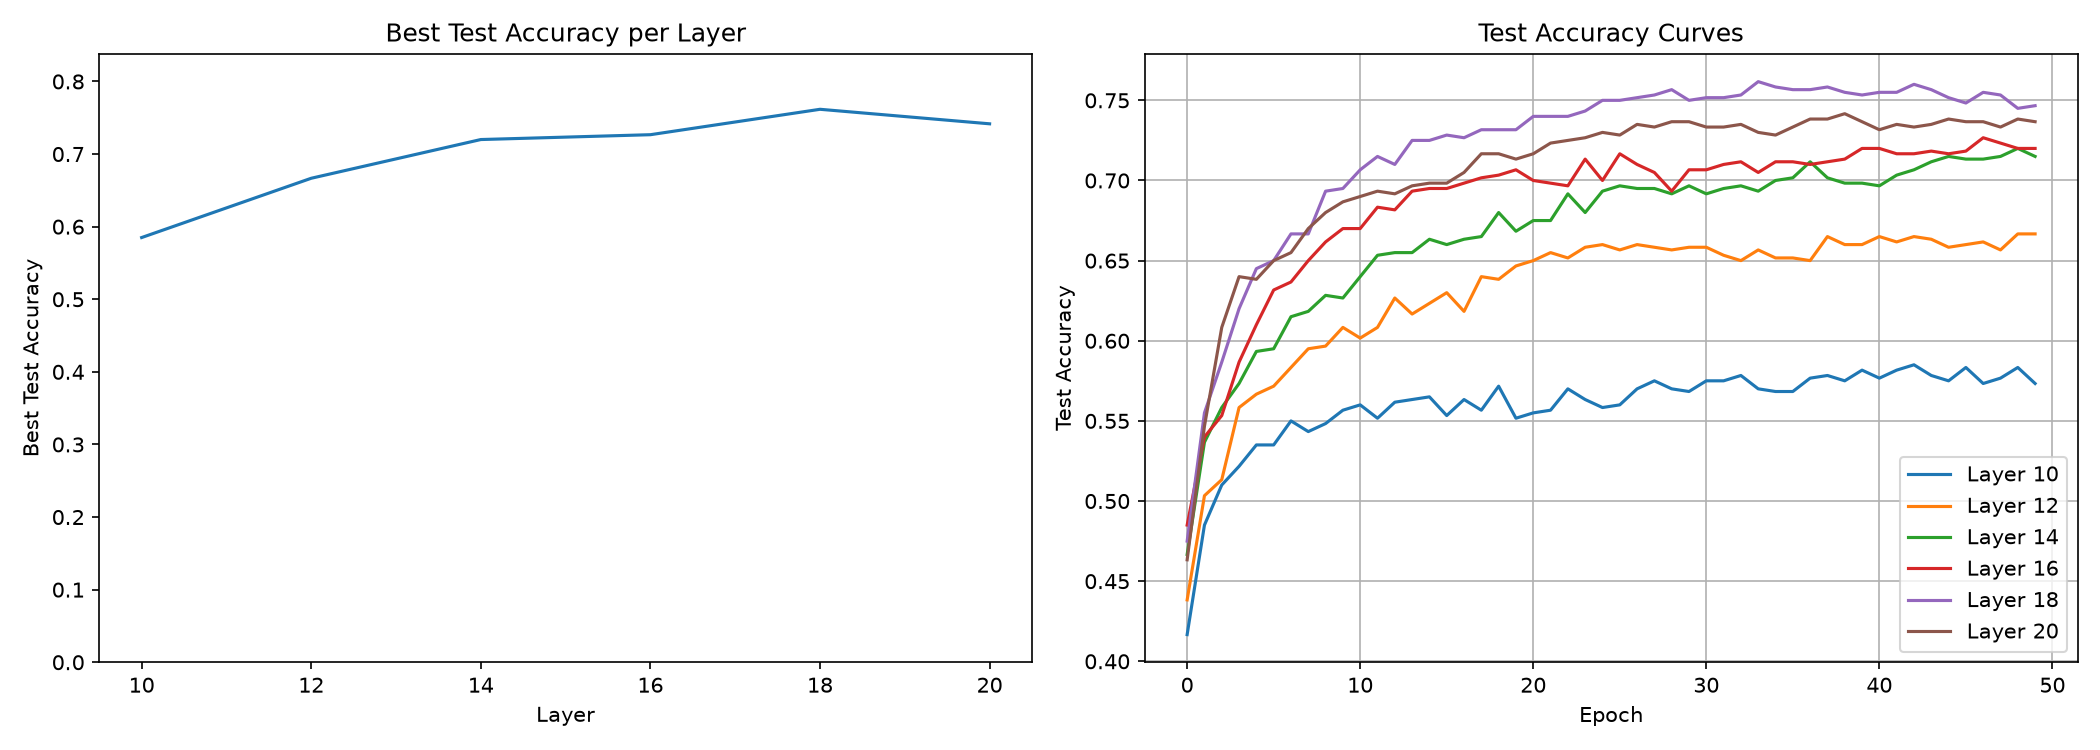
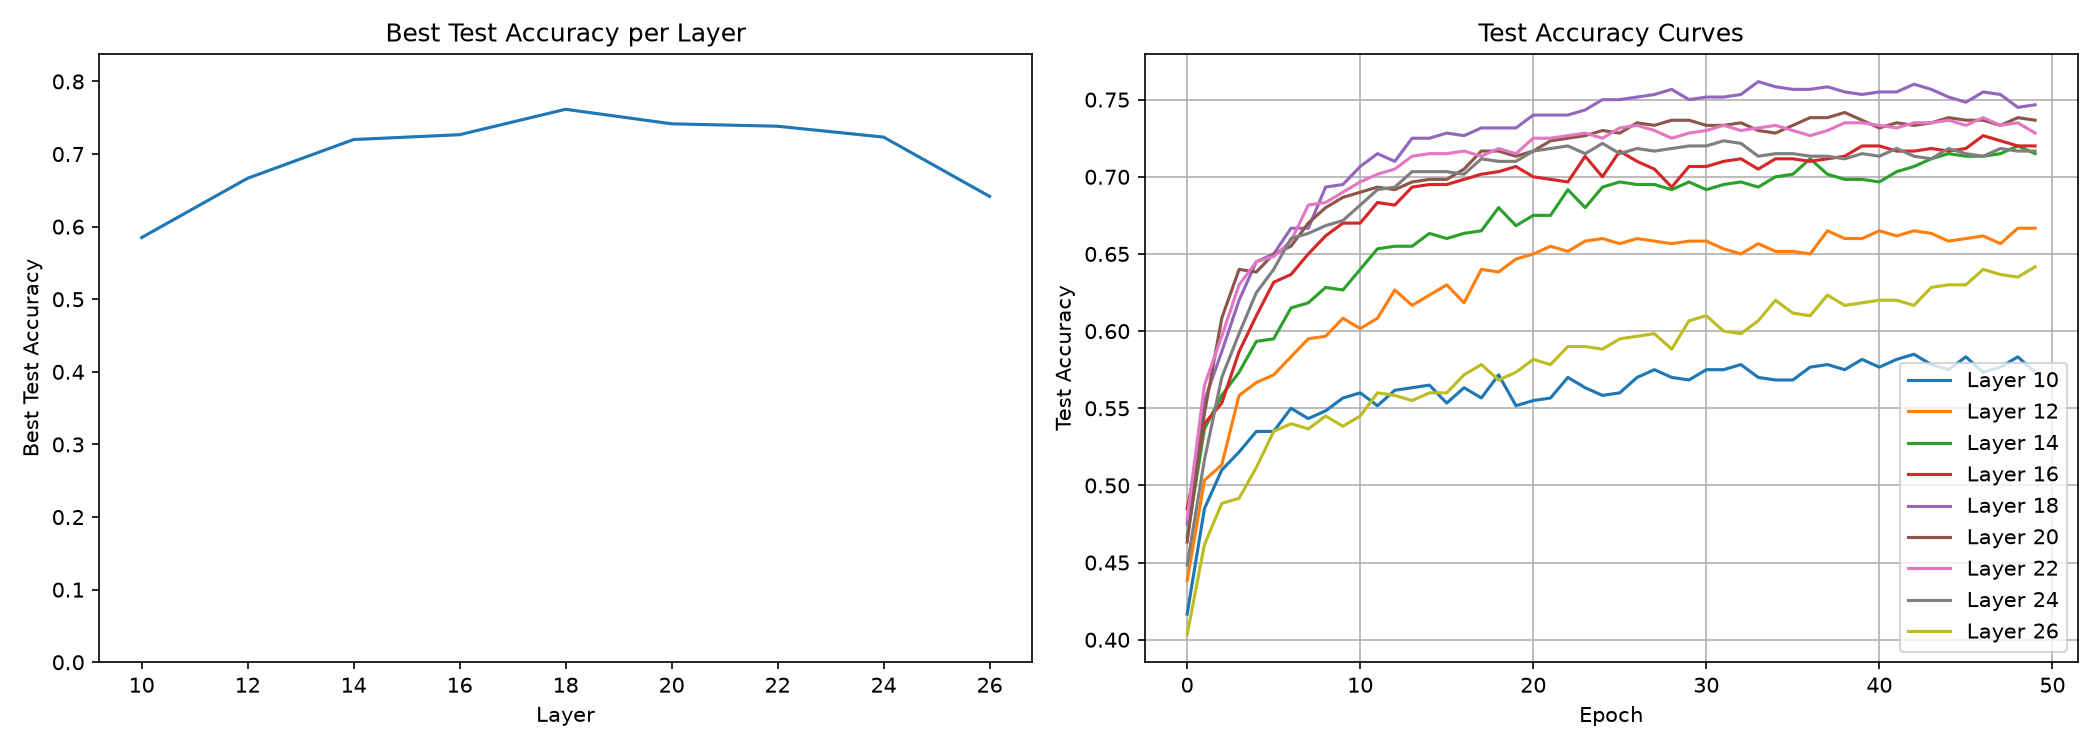
ignore dataset, except python files

diff --git a/carbon/linearProbe/multilayer-linear-probe.py b/carbon/linearProbe/multilayer-linear-probe.py
@@ -108,7 +108,7 @@ dataloader = DataLoader(subset, shuffle=False, batch_size=BATCH_SIZE, collate_fn
 # ---------------------------------------------------------------------------
 # 1) Feature extraction: mean-pooled activations for every sequence
 # ---------------------------------------------------------------------------
-LAYERS_TO_TEST = list(range(10, 21, 2))
+LAYERS_TO_TEST = list(range(10, 26 + 1, 2))
 
 print("Extracting activations...")
 for layer_idx, layer in enumerate(LAYERS_TO_TEST):
@@ -256,7 +256,7 @@ for layer_idx, layer in enumerate(LAYERS_TO_TEST):
     axes[1].set_xlabel("Epoch")
     axes[1].legend()
     fig.tight_layout()
-    fig.savefig(graphics_dir / "probe_training_curves.png", dpi=150)
+    fig.savefig(graphics_dir / f"probe_training_curves_{layer}.png", dpi=150)
     print("Saved probe_training_curves.png")
 
     # Save test accuracy statistics for summary
